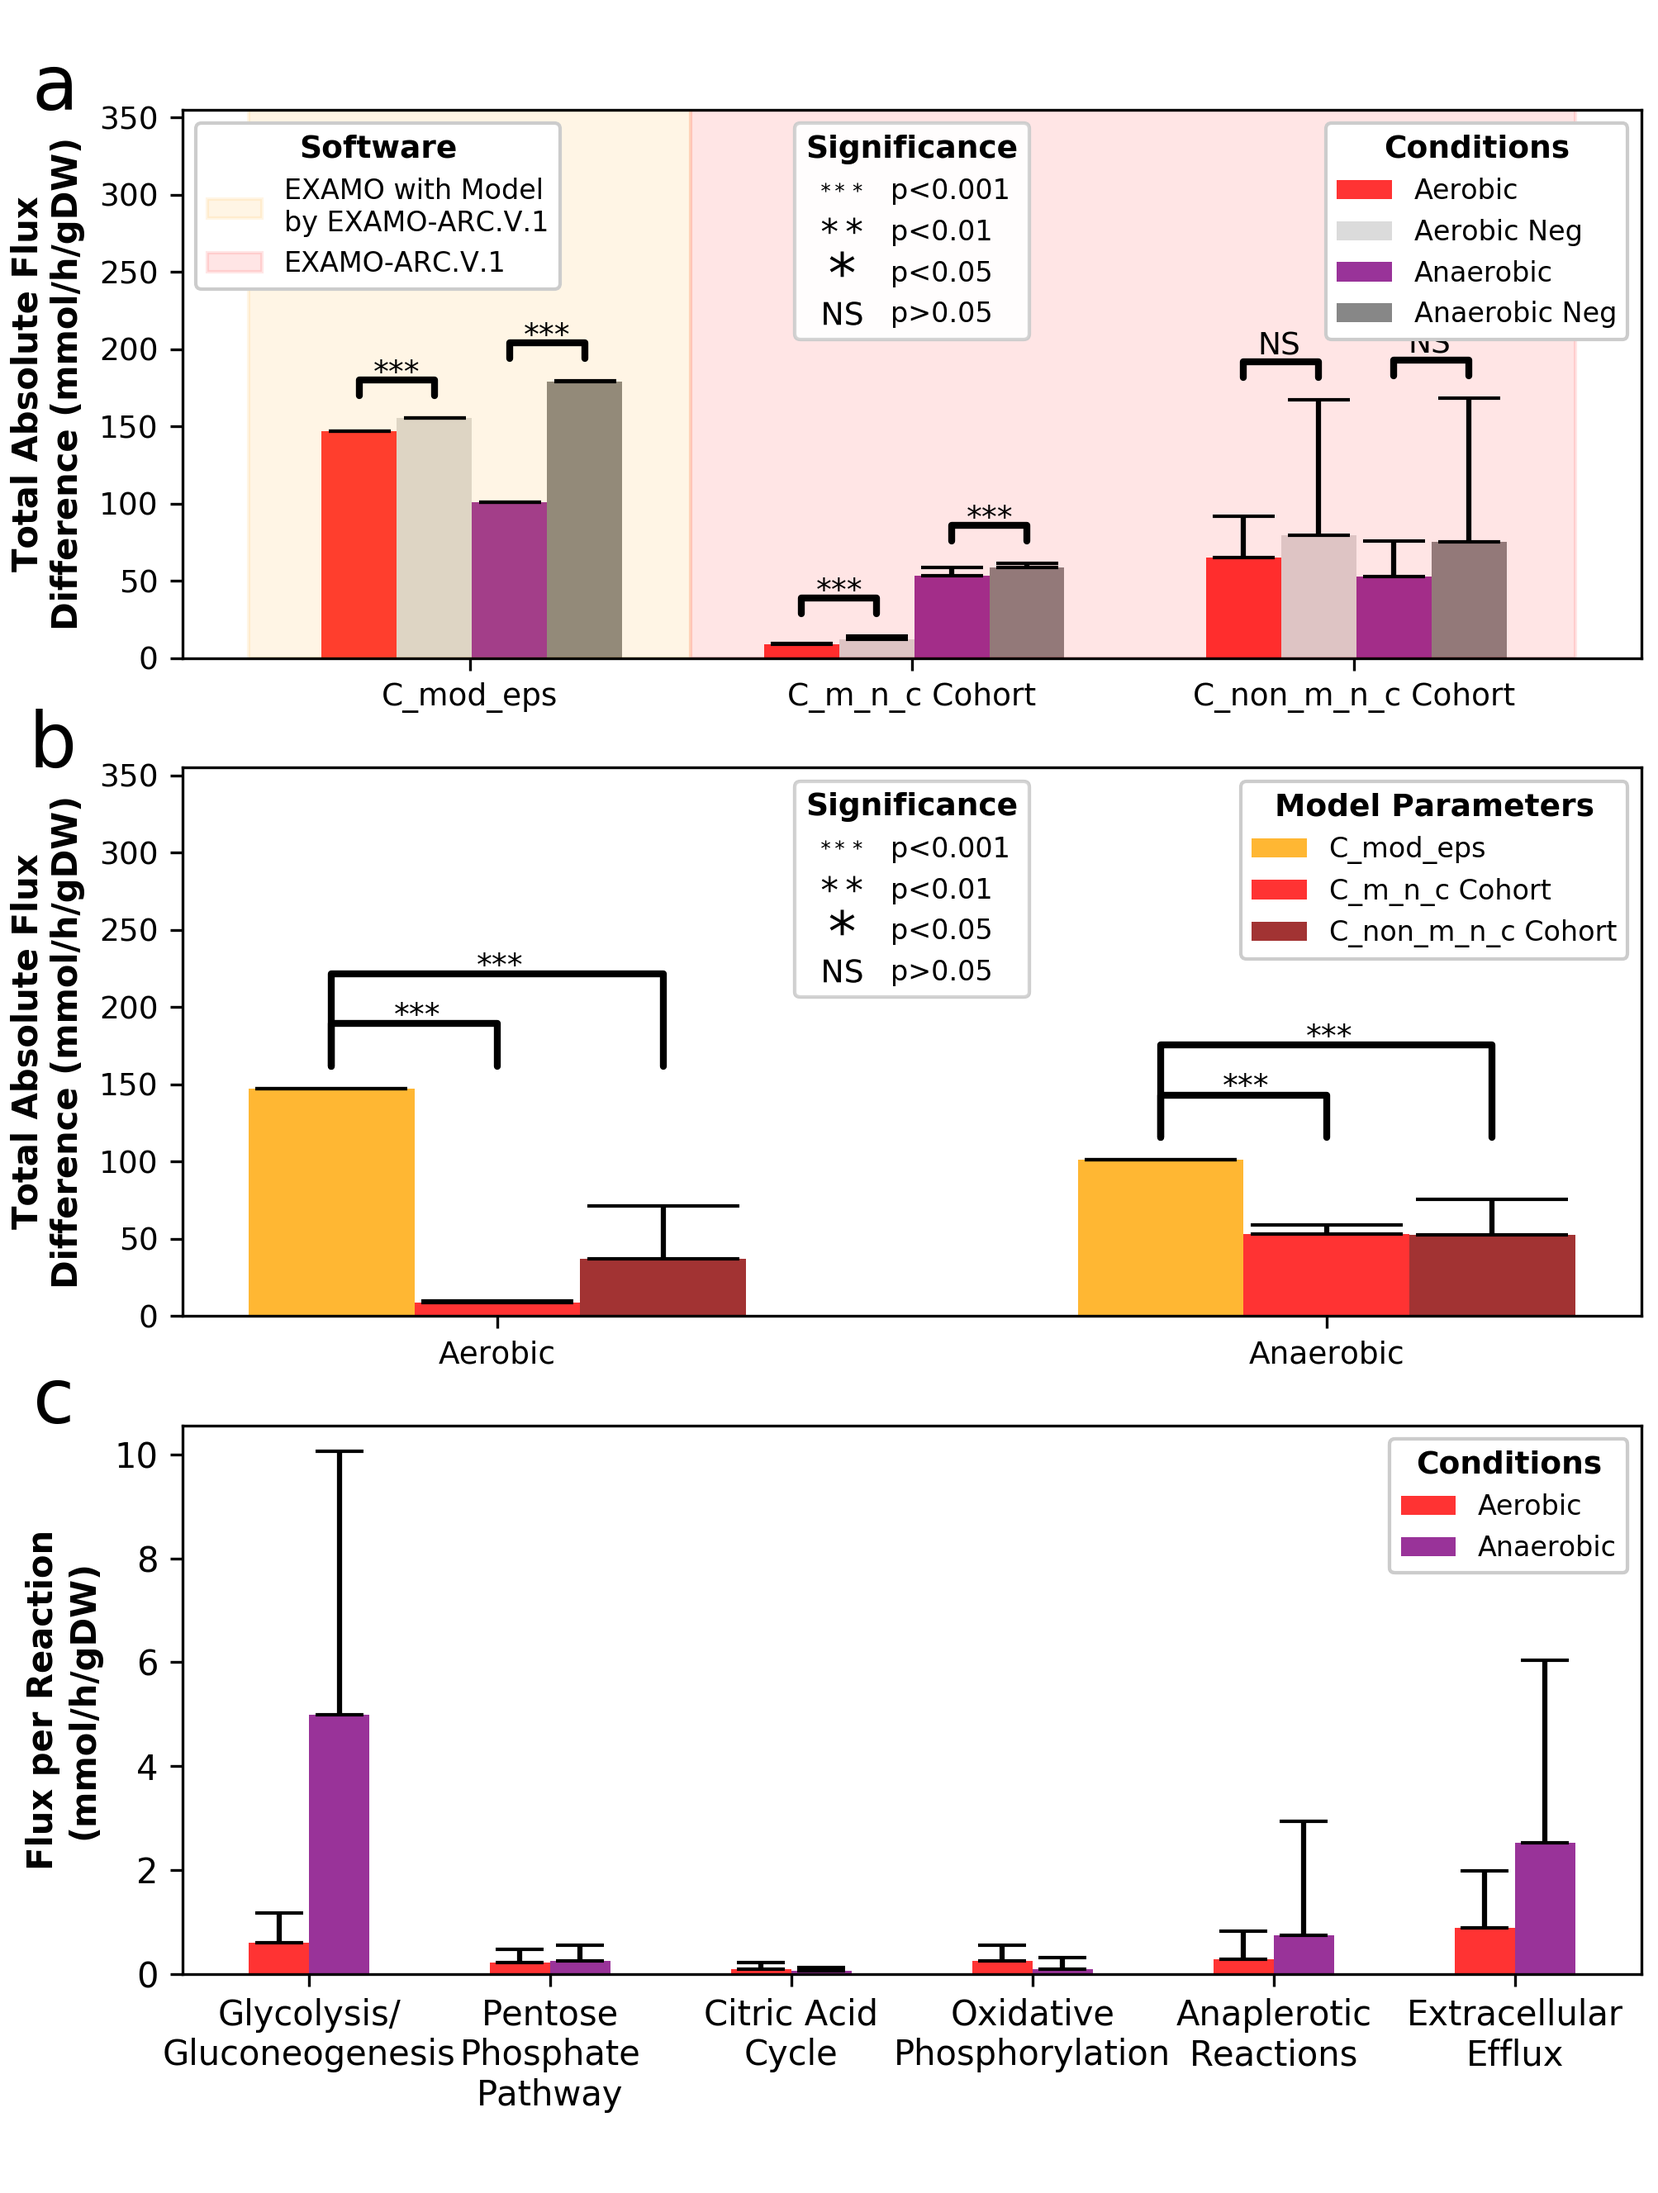
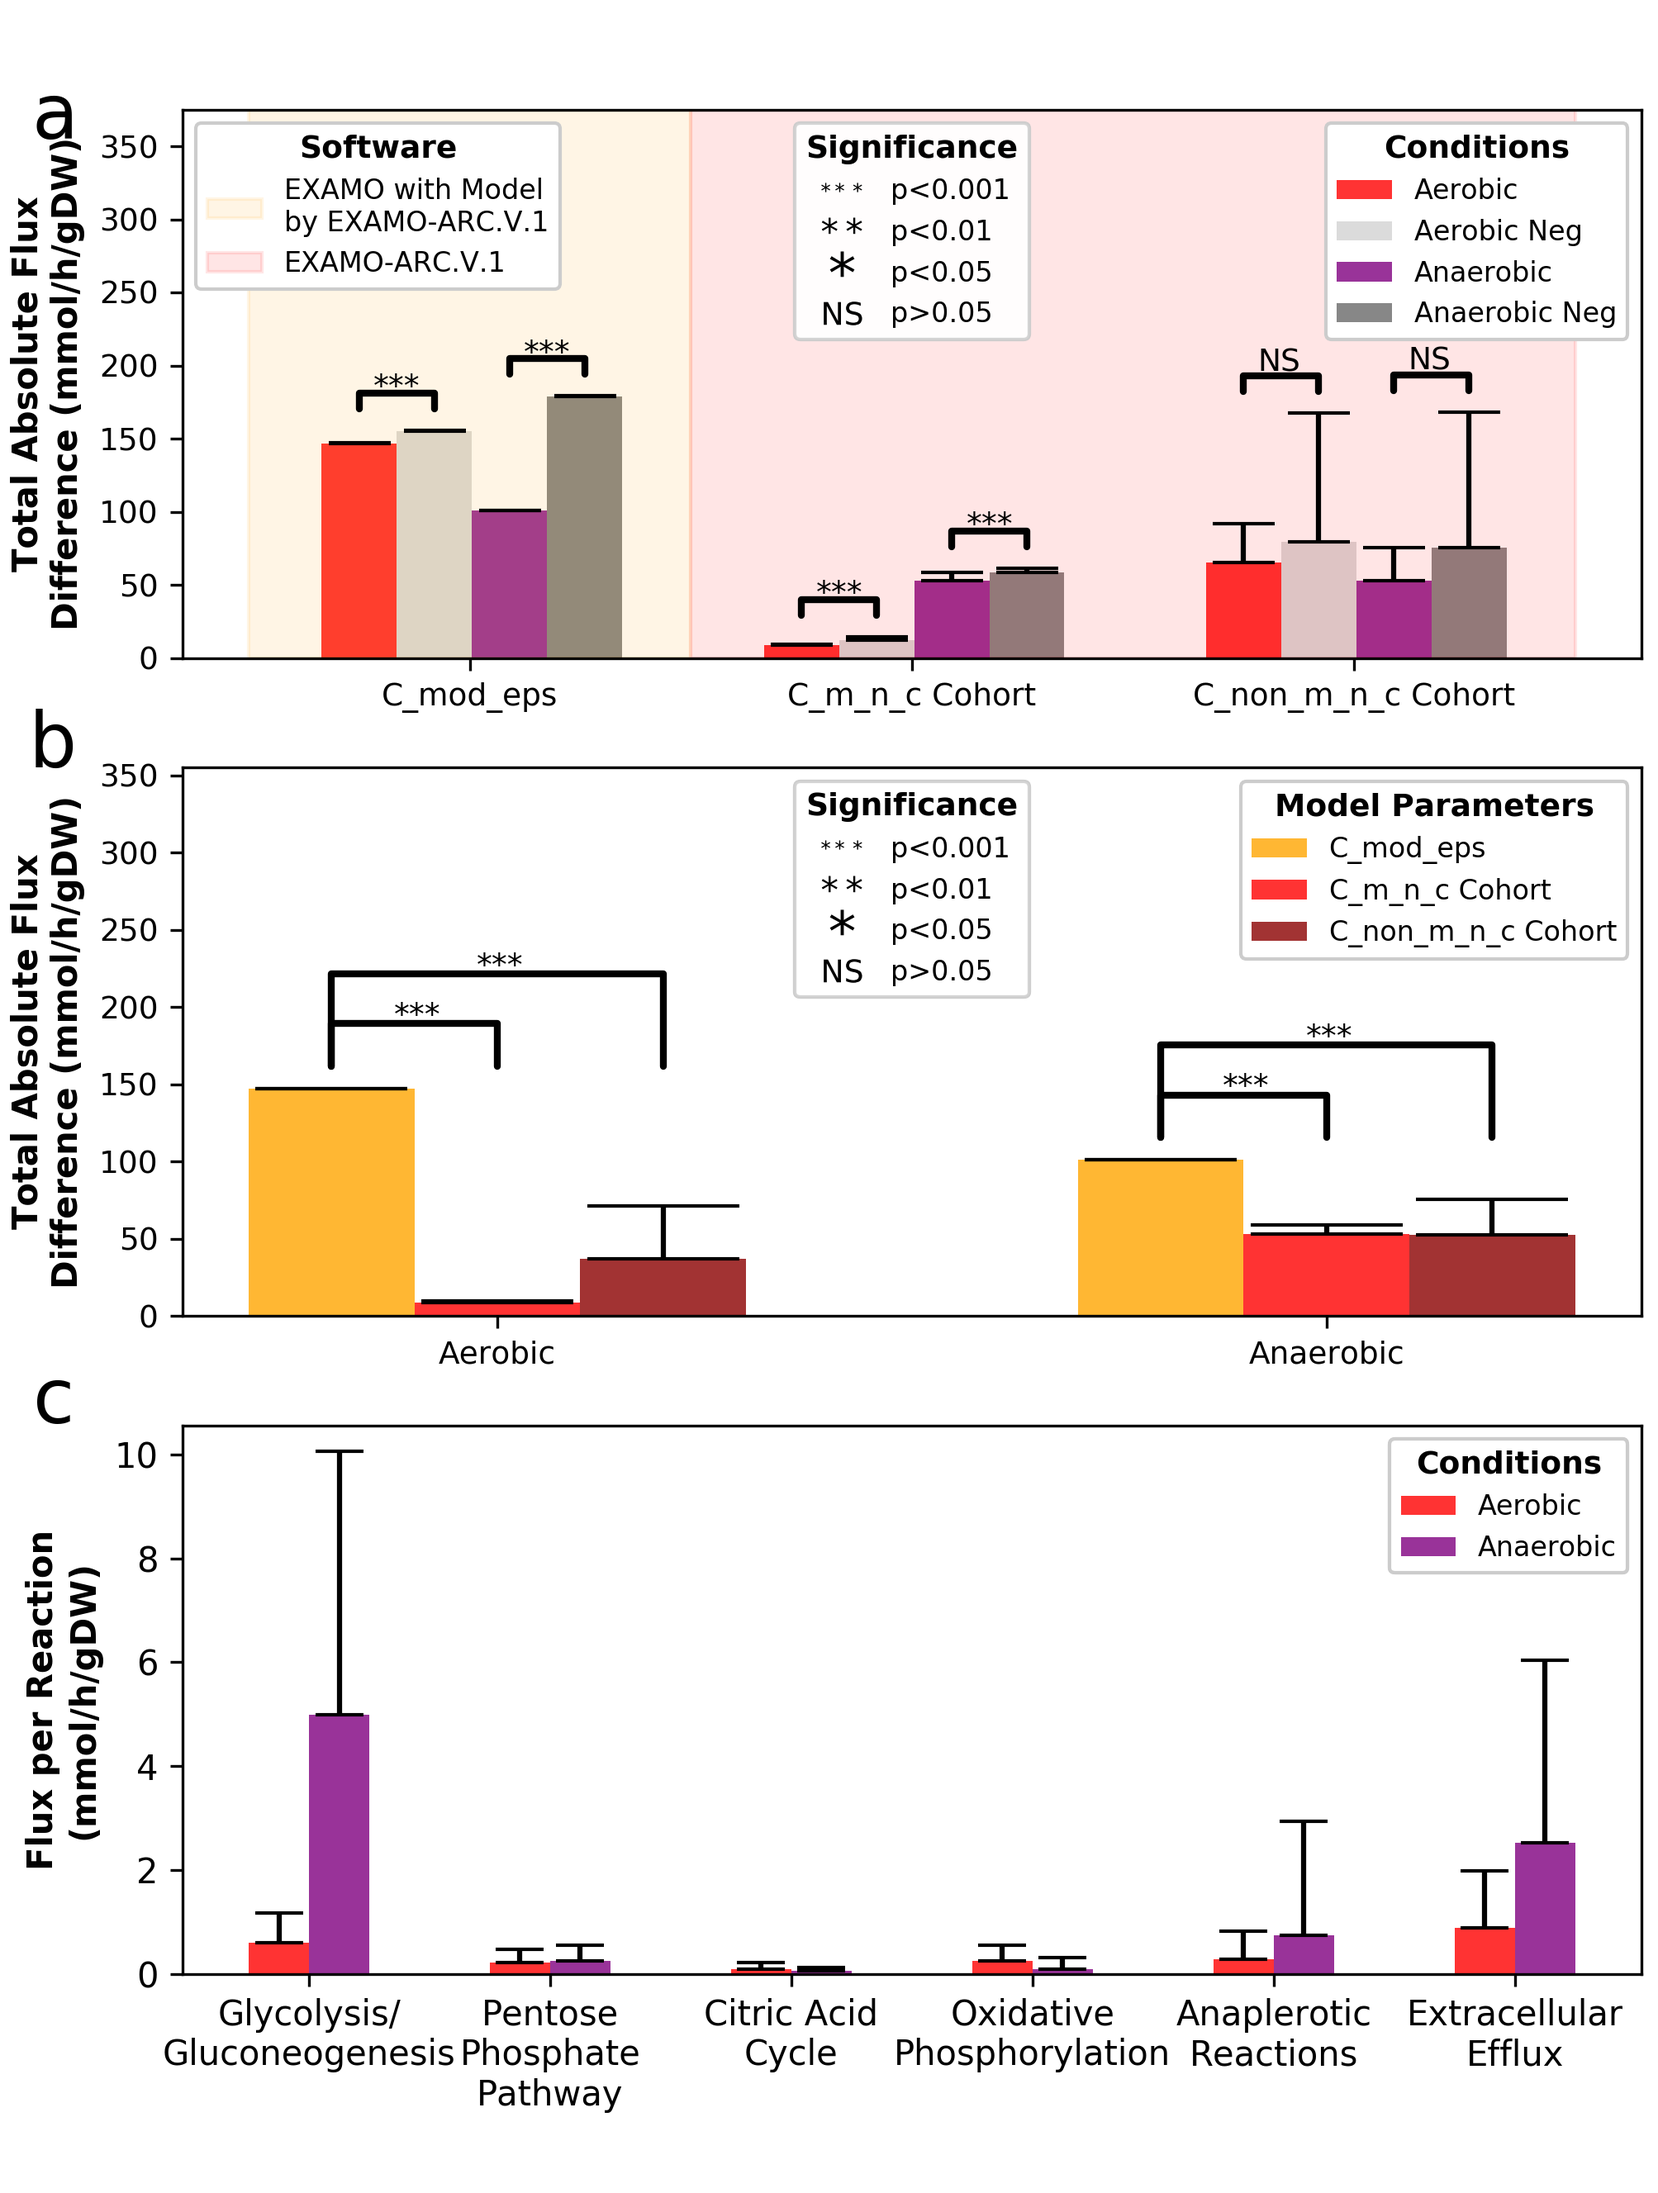
Figure 4 Spacing

diff --git a/170717_compare_all.py b/170717_compare_all.py
@@ -3772,10 +3772,10 @@ fig, (ax0,ax1,ax2) = plt.subplots(3, sharex=True)
 plt.close()
 bar_width = 0.17
 error_bar_length = np.repeat(0,len(sensitivity_ethanol))
-rects1 = ax0.bar(index, sensitivity_ethanol, bar_width, alpha = 0.8, yerr = [error_bar_length, sensitivity_ethanol_std], capsize = 3, color = 'b', label = 'Ethanol')
-rects2 = ax0.bar(index + bar_width, sensitivity_ethanol_negative, bar_width, alpha = 0.8, yerr = [error_bar_length, sensitivity_ethanol_negative_std], capsize = 3, color = 'r', label = 'Ethanol Neg') 
-rects3 = ax0.bar(index + bar_width + bar_width, sensitivity_glucose, bar_width, alpha = 0.8, yerr = [error_bar_length,sensitivity_glucose_std], capsize = 3, color = 'g', label = 'Glucose') 
-rects4  = ax0.bar(index + bar_width + bar_width + bar_width, sensitivity_glucose_negative, bar_width, alpha = 0.8, yerr = [error_bar_length, sensitivity_glucose_std], capsize = 3, color = 'm', label = 'Glucose Neg')
+rects1 = ax0.bar(index, sensitivity_ethanol, bar_width, alpha = 0.8, yerr = [error_bar_length, sensitivity_ethanol_std], capsize = 2, color = 'b', label = 'Ethanol')
+rects2 = ax0.bar(index + bar_width, sensitivity_ethanol_negative, bar_width, alpha = 0.8, yerr = [error_bar_length, sensitivity_ethanol_negative_std], capsize = 2, color = 'r', label = 'Ethanol Neg') 
+rects3 = ax0.bar(index + bar_width + bar_width, sensitivity_glucose, bar_width, alpha = 0.8, yerr = [error_bar_length,sensitivity_glucose_std], capsize = 2, color = 'g', label = 'Glucose') 
+rects4  = ax0.bar(index + bar_width + bar_width + bar_width, sensitivity_glucose_negative, bar_width, alpha = 0.8, yerr = [error_bar_length, sensitivity_glucose_std], capsize = 2, color = 'm', label = 'Glucose Neg')
 #plt.xlabel('Model Parameters',fontweight='bold',fontsize=10) 
 ax0.set_ylabel('Sensitivity (TP/(TP+FN))',fontweight='bold',fontsize=9)
 ax0.tick_params(labelsize=9)
@@ -3801,10 +3801,10 @@ ax0.set_ylim(0,1)
 
 bar_width = 0.17
 error_bar_length = np.repeat(0,len(PPV_ethanol))
-rects1 = ax1.bar(index, PPV_ethanol, bar_width, alpha = 0.8, yerr = [error_bar_length, PPV_ethanol_std], capsize = 3, color = 'b', label = 'Ethanol')
-rects2 = ax1.bar(index + bar_width, PPV_ethanol_negative, bar_width, alpha = 0.8, yerr = [error_bar_length, PPV_ethanol_negative_std], capsize = 3, color = 'r', label = 'Ethanol Neg') 
-rects3 = ax1.bar(index + bar_width + bar_width, PPV_glucose, bar_width, alpha = 0.8, yerr = [error_bar_length,PPV_glucose_std], capsize = 3, color = 'g', label = 'Glucose') 
-rects4  = ax1.bar(index + bar_width + bar_width + bar_width, PPV_glucose_negative, bar_width, alpha = 0.8, yerr = [error_bar_length, PPV_glucose_std], capsize = 3, color = 'm', label = 'Glucose Neg')
+rects1 = ax1.bar(index, PPV_ethanol, bar_width, alpha = 0.8, yerr = [error_bar_length, PPV_ethanol_std], capsize = 2, color = 'b', label = 'Ethanol')
+rects2 = ax1.bar(index + bar_width, PPV_ethanol_negative, bar_width, alpha = 0.8, yerr = [error_bar_length, PPV_ethanol_negative_std], capsize = 2, color = 'r', label = 'Ethanol Neg') 
+rects3 = ax1.bar(index + bar_width + bar_width, PPV_glucose, bar_width, alpha = 0.8, yerr = [error_bar_length,PPV_glucose_std], capsize = 2, color = 'g', label = 'Glucose') 
+rects4  = ax1.bar(index + bar_width + bar_width + bar_width, PPV_glucose_negative, bar_width, alpha = 0.8, yerr = [error_bar_length, PPV_glucose_std], capsize = 2, color = 'm', label = 'Glucose Neg')
 #plt.xlabel('Model Parameters',fontweight='bold',fontsize=10) 
 ax1.set_ylabel('Precision (TP/(TP+FP))',fontweight='bold',fontsize=10)
 ax1.tick_params(labelsize=9)
@@ -4920,10 +4920,10 @@ fig, (ax0, ax1, ax2) = plt.subplots(3)
 plt.close()
 bar_width = 0.17
 error_bar_length = np.repeat(0,len(Aerobic_average_individual))
-rects1 = ax0.bar(index, Aerobic_average_individual, bar_width, alpha = 0.8, yerr = [error_bar_length, Aerobic_std_individual], capsize = 3, color = 'red', label = 'Aerobic')
-rects2 = ax0.bar(index + bar_width, Aerobic_negative_control_average_individual, bar_width, alpha = 0.8, yerr = [error_bar_length, Aerobic_negative_control_std_individual], capsize = 3, color = 'lightgrey', label = 'Aerobic Neg') 
-rects3 = ax0.bar(index + bar_width + bar_width, Anaerobic_average_individual, bar_width, alpha = 0.8, yerr = [error_bar_length, Anaerobic_std_individual], capsize = 3, color = 'purple', label = 'Anaerobic') 
-rects4  = ax0.bar(index + bar_width + bar_width + bar_width, Anaerobic_negative_control_average_individual, bar_width, alpha = 0.8, yerr = [error_bar_length, Anaerobic_negative_control_std_individual], capsize = 3, color = 'dimgray', label = 'Anaerobic Neg')
+rects1 = ax0.bar(index, Aerobic_average_individual, bar_width, alpha = 0.8, yerr = [error_bar_length, Aerobic_std_individual], capsize = 9, color = 'red', label = 'Aerobic')
+rects2 = ax0.bar(index + bar_width, Aerobic_negative_control_average_individual, bar_width, alpha = 0.8, yerr = [error_bar_length, Aerobic_negative_control_std_individual], capsize = 9, color = 'lightgrey', label = 'Aerobic Neg') 
+rects3 = ax0.bar(index + bar_width + bar_width, Anaerobic_average_individual, bar_width, alpha = 0.8, yerr = [error_bar_length, Anaerobic_std_individual], capsize = 9, color = 'purple', label = 'Anaerobic') 
+rects4  = ax0.bar(index + bar_width + bar_width + bar_width, Anaerobic_negative_control_average_individual, bar_width, alpha = 0.8, yerr = [error_bar_length, Anaerobic_negative_control_std_individual], capsize = 9, color = 'dimgray', label = 'Anaerobic Neg')
 
 props = {'connectionstyle':'bar','arrowstyle':'-','lw':2}
 ax0.annotate('***', xy=(0+bar_width/4-0.01,23+max(Aerobic_average_individual[0]+Aerobic_std_individual[0],Aerobic_negative_control_average_individual[0]+Aerobic_negative_control_std_individual[0])),fontsize=9)
@@ -4977,7 +4977,7 @@ e.set_title('Significance',prop={'weight':'bold','size':'9'})
 ax0.add_artist(a)
 ax0.add_artist(d)
 ax0.add_artist(e)
-ax0.set_ylim(0,355)
+ax0.set_ylim(0,375)
 
 
 n_groups = 2
@@ -4992,9 +4992,9 @@ Aerobic_Anaerobic_std_comparing_software_all = [Aerobic_std_all, Anaerobic_std_n
 
 bar_width = 0.2
 error_bar_length = np.repeat(0,len(Aerobic_Anaerobic_average_comparing_software_eps))
-rects1 = ax1.bar(index, Aerobic_Anaerobic_average_comparing_software_eps, bar_width, alpha = 0.8, yerr = [error_bar_length, Aerobic_Anaerobic_std_comparing_software_eps], capsize = 3, color = 'orange', label = 'C_mod_eps')
-rects2 = ax1.bar(index + bar_width, Aerobic_Anaerobic_average_comparing_software_m_n_c, bar_width, alpha = 0.8, yerr = [error_bar_length, Aerobic_Anaerobic_std_comparing_software_m_n_c], capsize = 3, color = 'r', label = 'C_m_n_c Cohort') 
-rects3 = ax1.bar(index + bar_width + bar_width, Aerobic_Anaerobic_average_comparing_software_all, bar_width, alpha = 0.8, yerr = [error_bar_length, Aerobic_Anaerobic_std_comparing_software_all], capsize = 3, color = 'darkred', label = 'C_non_m_n_c Cohort') 
+rects1 = ax1.bar(index, Aerobic_Anaerobic_average_comparing_software_eps, bar_width, alpha = 0.8, yerr = [error_bar_length, Aerobic_Anaerobic_std_comparing_software_eps], capsize = 22, color = 'orange', label = 'C_mod_eps')
+rects2 = ax1.bar(index + bar_width, Aerobic_Anaerobic_average_comparing_software_m_n_c, bar_width, alpha = 0.8, yerr = [error_bar_length, Aerobic_Anaerobic_std_comparing_software_m_n_c], capsize = 22, color = 'r', label = 'C_m_n_c Cohort') 
+rects3 = ax1.bar(index + bar_width + bar_width, Aerobic_Anaerobic_average_comparing_software_all, bar_width, alpha = 0.8, yerr = [error_bar_length, Aerobic_Anaerobic_std_comparing_software_all], capsize = 22, color = 'darkred', label = 'C_non_m_n_c Cohort') 
 
 
 props = {'connectionstyle':'bar','arrowstyle':'-', 'lw':2}
@@ -5089,8 +5089,8 @@ n_groups = 6
 index = np.arange(n_groups)
 bar_width = 0.25
 error_bar_length = np.repeat(0,len(Aerobic_average))
-rects1 = ax2.bar(index, Aerobic_average, bar_width, alpha = 0.8, yerr = [error_bar_length, Aerobic_std], capsize = 2, color = 'r', label = 'Aerobic')
-rects2 = ax2.bar(index + bar_width, Anaerobic_average, bar_width, alpha = 0.8, yerr = [error_bar_length, Anaerobic_std], capsize = 2, color = 'purple', label = 'Anaerobic') 
+rects1 = ax2.bar(index, Aerobic_average, bar_width, alpha = 0.8, yerr = [error_bar_length, Aerobic_std], capsize = 7, color = 'r', label = 'Aerobic')
+rects2 = ax2.bar(index + bar_width, Anaerobic_average, bar_width, alpha = 0.8, yerr = [error_bar_length, Anaerobic_std], capsize = 7, color = 'purple', label = 'Anaerobic') 
 
 ax2.set_ylabel('Flux per Reaction\n(mmol/h/gDW)',fontweight='bold',fontsize=10) 
 plt.tick_params(labelsize=9)
@@ -5111,7 +5111,6 @@ plt.tight_layout()
 fig.subplots_adjust(left=0.11,bottom=0.1,top=0.95,right=0.99)
 fig.set_size_inches(6.69,8.85)
 fig.savefig('Figure_4.png',dpi=300)
-
 
 
 
